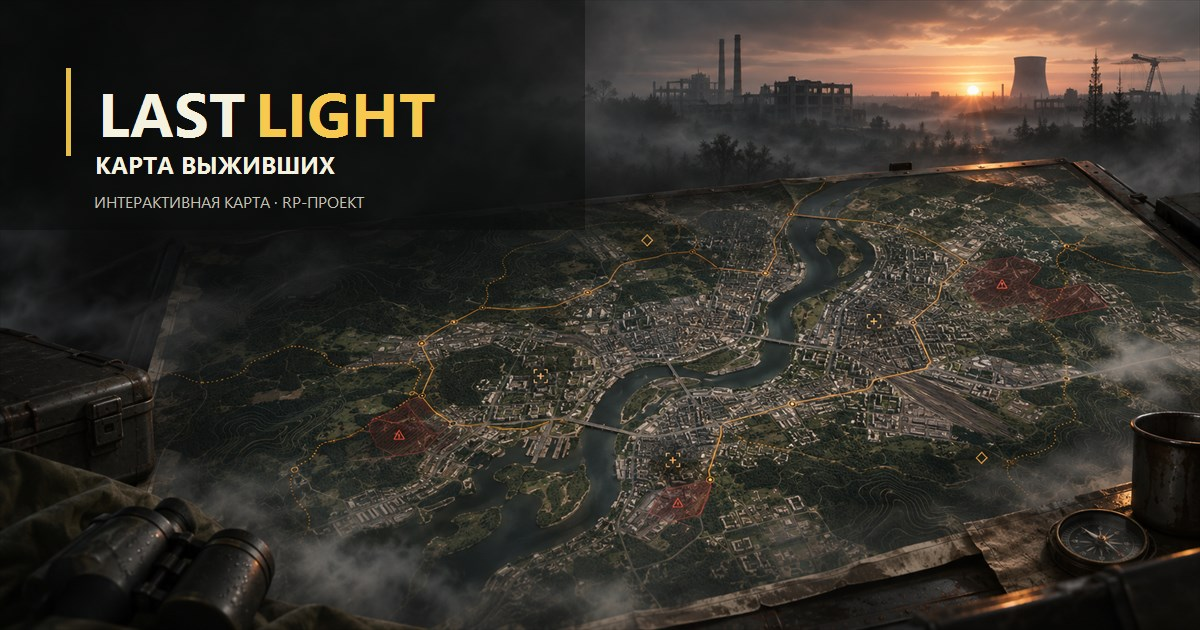
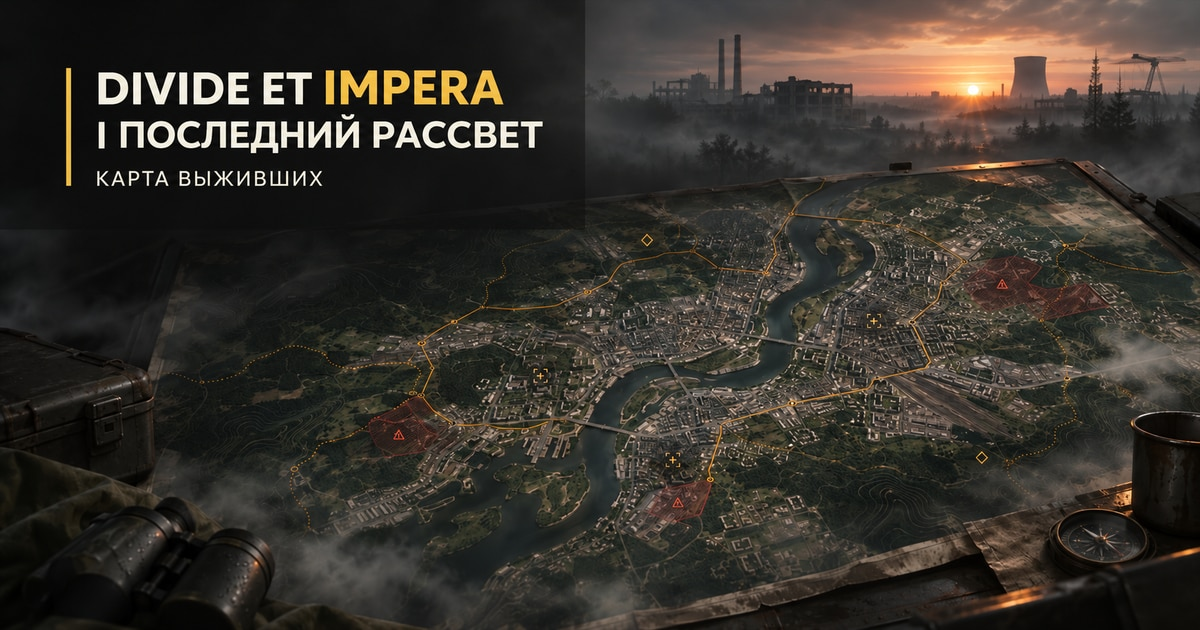
Add combat groups and modifier cards; rebrand to Divide et Impera I Последний рассвет

diff --git a/squad-combat.js b/squad-combat.js
@@ -1,0 +1,33 @@
+(function(){
+ 'use strict';
+ var E=esc,A=function(v){return Array.isArray(v)?v:[]},clone=function(v){return JSON.parse(JSON.stringify(v))},dialog=document.createElement('dialog'),editor=null,filter='active';dialog.className='ds-dialog combat-dialog';document.body.append(dialog);
+ function id(){return 'c_'+(crypto.randomUUID?crypto.randomUUID().replace(/-/g,''):Date.now().toString(36)+Math.random().toString(36).slice(2))}
+ function button(text,action,index){return isMaster()?'<button type="button" data-combat="'+action+'" data-index="'+(index==null?-1:index)+'">'+E(text)+'</button>':''}
+ function text(t){return '<div class="ds-detail-text">'+E(t||'')+'</div>'}
+ function optional(title,value){return value?'<section class="combat-section"><h3>'+E(title)+'</h3>'+text(value)+'</section>':''}
+ function groupMembers(s,g){return A(g.memberIds).map(function(key){var m=LLSquadDossier.roster(s).find(function(v){return String(v.id)===String(key)});return {id:String(key),m:m,name:m?m.n:(g.memberNames||{})[key]||'Участник удалён из состава'}})}
+ function render(s,tab){var d=s.dossier||{};
+  if(tab==='Военное дело'){var groups=A(d.combatGroups);return '<section class="ds-box"><div class="ds-titlebar"><h2>Боевые группы</h2>'+button('Сформировать группу','group')+'</div><p class="ds-caption">'+groups.length+' групп · раскройте карточку, чтобы посмотреть состав, задание и историю.</p><div class="combat-grid">'+groups.map(function(g,i){var members=groupMembers(s,g),leader=members.find(function(m){return m.id===String(g.leaderId)});return '<details class="combat-card"><summary><div class="ds-heading"><h3>'+E(g.name)+'</h3><span class="ds-badge '+(g.status==='active'?'good':'')+'">'+(g.status==='active'?'Активна':'Неактивна')+'</span></div><span class="ds-caption">'+E(g.type||'Боевая группа')+'</span><dl class="ds-keyvals"><dt>Руководитель</dt><dd>'+E(leader?leader.name:'Не назначен')+'</dd><dt>Участники</dt><dd>'+members.filter(function(m){return m.m}).length+(members.some(function(m){return !m.m})?' · состав требует проверки':'')+'</dd><dt>Назначение</dt><dd>'+E(g.purpose||'Не указано')+'</dd><dt>Текущее задание</dt><dd>'+E(g.currentTask||'Нет')+'</dd></dl><span class="combat-open-hint">Состав и подробности</span></summary><section class="combat-section"><h3>Состав группы</h3><div class="combat-roster">'+(members.length?members.map(function(v){return '<div class="combat-person">'+(v.m?LLCharacterEquipment.portrait(v.m):'')+'<div><b>'+E(v.name)+'</b><span class="ds-caption">'+E(v.m?[v.m.spec,v.id===String(g.leaderId)?'Руководитель':'Участник группы'].filter(Boolean).join(' · '):'Больше не числится в отряде')+'</span></div></div>'}).join(''):'<p class="ds-caption">Участники ещё не назначены.</p>')+'</div></section>'+optional('Состояние',g.availability)+optional('Последнее задание',g.lastTask)+optional('Информация',g.notes)+'<div class="ds-actions">'+button('Изменить состав','group',i)+button('Назначить задание','assign',i)+'</div><details class="combat-history"><summary>История группы · '+A(g.history).length+'</summary>'+A(g.history).slice().reverse().map(function(h){return '<div class="combat-history-row"><small>Ход '+E(h.turn)+'</small>'+text(h.text)+'</div>'}).join('')+'</details>'+button('Удалить группу','delete-group',i)+'</details>'}).join('')+'</div>'+(!groups.length?'<div class="ds-empty">Группы пока не сформированы. Мастер может объединить персонажей отряда и назначить руководителя.</div>':'')+'</section>'}
+  if(tab==='Модификаторы'){var all=A(d.modifiers),active=all.filter(function(m){return m.status!=='inactive'}),rows=all.map(function(m,i){return{m:m,i:i}}).filter(function(v){return filter==='all'||v.m.status!=='inactive'}),types={positive:'Положительный',negative:'Отрицательный',mixed:'Смешанный'},terms={permanent:'Постоянный',temporary:'Временный',conditional:'До выполнения условия'};return '<section class="ds-box"><div class="ds-titlebar"><h2>Модификаторы отряда</h2>'+button('Добавить модификатор','modifier')+'</div><div class="ds-heading"><span class="ds-badge">'+active.length+' активных</span><div class="ds-filters"><button data-modifier-filter="active" class="'+(filter==='active'?'on':'')+'">Действующие</button><button data-modifier-filter="all" class="'+(filter==='all'?'on':'')+'">Все</button></div></div><p class="ds-caption">Эффекты, причины и условия действия. Изменения показателей по ним фиксирует мастер.</p>'+rows.map(function(v){var m=v.m,tone=m.type==='positive'?'good':m.type==='negative'?'bad':'risk';return '<details class="combat-card modifier-card"><summary><div class="ds-heading"><h3>'+E(m.name)+'</h3><span class="ds-badge '+tone+'">'+E(types[m.type]||types.mixed)+'</span></div>'+text(m.summary)+(m.source?'<p class="ds-caption">Источник: '+E(m.source)+'</p>':'')+'<span class="combat-open-hint">Эффекты и подробности</span></summary><div class="ds-heading"><span class="ds-badge">'+(m.status==='inactive'?'Неактивен':'Активен')+'</span><span class="ds-caption">'+E(terms[m.term]||terms.permanent)+'</span></div>'+optional('Описание',m.description)+(A(m.effects).length?'<section class="combat-section"><h3>Влияние на отряд</h3>'+A(m.effects).map(function(e){return '<div class="modifier-effect"><div><b>'+E(e.name)+'</b>'+text(e.description)+'</div><strong class="'+(Number(e.delta)<0?'negative':'positive')+'">'+(Number(e.delta)>0?'+':'')+E(e.delta==null?'—':e.delta)+'</strong></div>'}).join('')+'</section>':'')+optional('Возможные последствия',m.consequences)+optional('Как устранить / изменить',m.remedy)+optional('Длительность',m.duration)+optional('Перспектива',m.outlook)+'<div class="ds-actions">'+button('Редактировать','modifier',v.i)+button('Удалить','delete-modifier',v.i)+'</div></details>'}).join('')+(!rows.length?'<div class="ds-empty">'+(filter==='all'?'Модификаторы пока не добавлены.':'Действующих модификаторов нет.')+'</div>':'')+'</section>'}
+  return null;
+ }
+ function field(label,name,value,type,options){type=type||'text';var v=value==null?'':value;return '<label class="ds-field '+(type==='textarea'?'wide':'')+'">'+E(label)+(type==='textarea'?'<textarea name="'+name+'" maxlength="5000">'+E(v)+'</textarea>':type==='select'?'<select name="'+name+'">'+Object.keys(options).map(function(k){return '<option value="'+E(k)+'" '+(String(v)===k?'selected':'')+'>'+E(options[k])+'</option>'}).join('')+'</select>':'<input name="'+name+'" type="'+type+'" value="'+E(v)+'" '+(type==='number'?'min="-1000000" max="1000000" step="any"':'maxlength="200"')+(name==='name'?' required':'')+'>')+'</label>'}
+ function effectRow(v){v=v||{};return '<div class="combat-effect-row">'+field('Показатель','effectName',v.name)+field('Изменение','effectDelta',v.delta,'number')+field('Что означает эффект','effectDescription',v.description,'textarea')+'<button type="button" data-effect-remove>Убрать эффект</button></div>'}
+ function open(s,kind,index,assignment){
+  if(!isMaster())return;var source=clone(s),d=source.dossier||{},key=kind==='group'?'combatGroups':'modifiers',values=A(d[key]),v=clone(values[index]||{}),roster=clone(LLSquadDossier.roster(s));roster.forEach(function(m){if(!m.id)m.id=id()});editor={source:source,kind:kind,key:key,index:index,v:v,roster:roster};
+  var html='';if(kind==='group'){if(!v.status)v.status='active';html=field('Название группы','name',v.name)+field('Тип группы','type',v.type)+field('Состояние','status',v.status,'select',{active:'Активна',inactive:'Неактивна'})+field('Назначение','purpose',v.purpose)+field('Текущее задание','currentTask',v.currentTask)+field('Готовность / занятость','availability',v.availability)+field('Последнее задание','lastTask',v.lastTask)+field('Информация','notes',v.notes,'textarea')+'<section class="ds-edit-section wide"><h3>Состав группы</h3><div class="combat-member-choices">'+roster.map(function(m){return '<label><input type="checkbox" name="memberIds" value="'+E(m.id)+'" '+(A(v.memberIds).map(String).includes(String(m.id))?'checked':'')+'><span><b>'+E(m.n)+'</b><small>'+E(m.spec||'Участник отряда')+'</small></span></label>'}).join('')+'</div>'+(roster.length?'':'<p class="ds-caption">Сначала добавьте персонажей в разделе «Персонал».</p>')+field('Руководитель (должен входить в состав)','leaderId',v.leaderId,'select',Object.assign({'':'Не назначен'},Object.fromEntries(roster.map(function(m){return [m.id,m.n]}))))+'</section>';}
+  else{html=field('Название','name',v.name)+field('Тип','type',v.type||'positive','select',{positive:'Положительный',negative:'Отрицательный',mixed:'Смешанный'})+field('Состояние','status',v.status||'active','select',{active:'Активен',inactive:'Неактивен'})+field('Характер действия','term',v.term||'permanent','select',{permanent:'Постоянный',temporary:'Временный',conditional:'До выполнения условия'})+field('Краткое описание','summary',v.summary,'textarea')+field('Источник','source',v.source)+field('Подробное описание','description',v.description,'textarea')+field('Возможные последствия','consequences',v.consequences,'textarea')+field('Как устранить / изменить (необязательно)','remedy',v.remedy,'textarea')+field('Длительность (необязательно)','duration',v.duration)+field('Перспектива (необязательно)','outlook',v.outlook)+'<section class="ds-edit-section wide"><h3>Влияние на показатели</h3><div data-combat-effects>'+A(v.effects).map(effectRow).join('')+'</div><button type="button" data-effect-add>Добавить эффект</button></section>'}
+  dialog.innerHTML='<form><div class="ds-dialog-head"><h2>'+(kind==='group'?(index<0?'Сформировать группу':'Боевая группа'):'Модификатор')+'</h2><button type="button" data-combat-close aria-label="Закрыть">×</button></div><div class="ds-dialog-body"><p class="ds-caption">'+(kind==='group'?'Выберите участников из состава отряда. Изменения состава и задания сохраняются в истории группы.':'Заполняйте нужные поля. Пустые дополнительные разделы не показываются игрокам.')+'</p><div class="ds-form-grid">'+html+'</div></div><div class="ds-dialog-foot"><span data-combat-error role="status"></span><button type="button" data-combat-close>Отмена</button><button class="pr" type="submit">Сохранить</button></div></form>';
+  if(kind==='group'){var tasks=A(d.tasks);var datalist=document.createElement('datalist');datalist.id='combat-task-options';tasks.forEach(function(t){datalist.append(new Option(t.title,t.title))});dialog.append(datalist);dialog.querySelector('[name=currentTask]').setAttribute('list',datalist.id)}dialog.showModal();if(assignment)dialog.querySelector('[name=currentTask]').focus();
+ }
+ async function persist(source,patch){if(!isMaster()||!worldSyncReady||!worldCloudExists||!window.LLAuth)throw Error('Дождитесь подключения общей базы.');var expected={};Object.keys(patch).forEach(function(k){expected[k]=source[k]===undefined?null:source[k]});var updated=await LLAuth.updateSquadDossier(source.id,patch,expected),i=D.squads.findIndex(function(q){return String(q.id)===String(source.id)});if(i>=0&&Number(D.squads[i].statsRevision||0)<=Number(updated.statsRevision||0))D.squads[i]=updated;save();rState()}
+ document.addEventListener('click',async function(ev){var f=ev.target.closest('[data-modifier-filter]');if(f){filter=f.dataset.modifierFilter;rState();return}var el=ev.target.closest('[data-combat]');if(!el||!isMaster())return;var s=LLSquadDossier.squad(),action=el.dataset.combat,index=Number(el.dataset.index);if(!s)return;if(action.startsWith('delete-')){if(!confirm('Удалить запись?'))return;var key=action==='delete-group'?'combatGroups':'modifiers',source=clone(s),d=clone(s.dossier||{});d[key]=A(d[key]);d[key].splice(index,1);el.disabled=true;try{await persist(source,{dossier:d})}catch(error){authMessage(error);el.disabled=false}return}open(s,action==='assign'?'group':action,index,action==='assign')});
+ dialog.addEventListener('click',function(ev){if(dialog.dataset.saving==='1')return;if(ev.target.closest('[data-combat-close]'))dialog.close();if(ev.target.closest('[data-effect-add]'))dialog.querySelector('[data-combat-effects]').insertAdjacentHTML('beforeend',effectRow({}));var remove=ev.target.closest('[data-effect-remove]');if(remove)remove.closest('.combat-effect-row').remove()});dialog.addEventListener('cancel',function(ev){if(dialog.dataset.saving==='1')ev.preventDefault()});
+ dialog.addEventListener('submit',async function(ev){ev.preventDefault();if(!editor||dialog.dataset.saving==='1'||!isMaster())return;var ed=editor,v=clone(ed.v),data=new FormData(dialog.querySelector('form')),patch={},error=dialog.querySelector('[data-combat-error]');data.forEach(function(value,key){if(!['memberIds','effectName','effectDelta','effectDescription'].includes(key))v[key]=String(value).trim()});
+  if(ed.kind==='group'){v.memberIds=data.getAll('memberIds');if(v.leaderId&&!v.memberIds.includes(v.leaderId)){error.textContent='Руководитель должен входить в состав группы.';return}v.memberNames=Object.fromEntries(ed.roster.filter(function(m){return v.memberIds.includes(String(m.id))}).map(function(m){return[m.id,m.n]}));if(ed.v.currentTask&&ed.v.currentTask!==v.currentTask&&!v.lastTask)v.lastTask=ed.v.currentTask;v.history=A(v.history).slice();var changes=[];if(ed.index<0)changes.push('Группа сформирована');else{if(JSON.stringify(A(ed.v.memberIds))!==JSON.stringify(v.memberIds)||ed.v.leaderId!==v.leaderId)changes.push('Состав или руководитель изменены');if(ed.v.currentTask!==v.currentTask)changes.push(v.currentTask?'Назначено задание: '+v.currentTask:'Группа освобождена от задания');if(ed.v.name!==v.name||ed.v.purpose!==v.purpose||ed.v.status!==v.status||ed.v.notes!==v.notes)changes.push('Информация о группе обновлена')}if(changes.length)v.history.push({turn:GAME_CLOCK?GAME_CLOCK.turn:D.turn,text:changes.join('. ')});if(JSON.stringify(ed.source.mem||[])!==JSON.stringify(ed.roster))patch.mem=ed.roster;}
+  else{v.effects=Array.from(dialog.querySelectorAll('.combat-effect-row')).map(function(row){return{name:row.querySelector('[name=effectName]').value.trim(),delta:row.querySelector('[name=effectDelta]').value===''?null:Number(row.querySelector('[name=effectDelta]').value),description:row.querySelector('[name=effectDescription]').value.trim()}}).filter(function(e){return e.name||e.description||e.delta!==null})}
+  if(!v.id)v.id=id();var d=clone(ed.source.dossier||{}),values=A(d[ed.key]).slice();if(ed.index<0)values.push(v);else values[ed.index]=v;d[ed.key]=values;patch.dossier=d;dialog.dataset.saving='1';dialog.querySelectorAll('button,input,select,textarea').forEach(function(el){el.disabled=true});
+  try{await persist(ed.source,patch);dialog.close();toast('Данные отряда сохранены.','ok')}catch(e){error.textContent=e.message}finally{dialog.dataset.saving='0';dialog.querySelectorAll('button,input,select,textarea').forEach(function(el){el.disabled=false})}
+ });
+ window.addEventListener('ll:auth-state',function(){if(!isMaster()&&dialog.open)dialog.close()});var base=LLDevelopment.render;LLDevelopment.render=function(s,tab){var view=render(s,tab);return view===null?base(s,tab):view};
+})();

diff --git a/rp-social.js b/rp-social.js
@@ -561,7 +561,7 @@
     var selected = studioState.selected >= 0 ? studioState.shapes[studioState.selected] : null;
     var design = serializeStudioDesign(studioState.shapes);
     var legacy = encodeMarkerDesign(studioState.shapes);
-    return '<div class="marker-studio"><div class="eb">МАСТЕРСКАЯ · LAST LIGHT</div><h1>Редактор значков</h1><p>Соберите значок из фигур или рисуйте мышью и пальцем. Кисть рисует, ластик стирает части рисунка, а выбранные фигуры можно поворачивать. Шаблоны сохраняются в этом браузере.</p><div class="marker-studio-grid"><div class="card marker-studio-controls"><h3>Готовые шаблоны</h3><div class="marker-studio-preset-grid">' + presetCards + '</div><label class="fi">Название шаблона<input data-studio-field="name" maxlength="48" value="' + esc(studioState.name) + '"></label><label class="fi">Заголовок метки<input data-studio-field="title" maxlength="100" value="' + esc(studioState.title) + '"></label><label class="fi">Цвет<input type="color" data-studio-field="color" value="' + esc(validPrivateColor(studioState.color)) + '"></label><label class="fi">Короткая надпись на карте<input data-studio-field="caption" maxlength="48" value="' + esc(studioState.caption) + '" placeholder="Например: РАДИО"></label><label class="fi">Описание<textarea data-studio-field="description" rows="3" maxlength="1000">' + esc(studioState.description) + '</textarea></label><div style="display:flex;gap:7px;flex-wrap:wrap"><button class="pr" type="button" data-studio-save>Сохранить шаблон</button><button type="button" data-studio-use>Сохранить и выбрать</button></div><div class="marker-studio-note">После выбора шаблона редактор карты откроется на личной метке, где можно указать получателей. Сам значок синхронизируется вместе с меткой.</div><h3 style="margin-top:18px">Мои шаблоны</h3><div class="marker-studio-saved">' + savedHtml + '</div></div><div class="card marker-studio-work"><h3>Рабочая область</h3><div class="marker-studio-tools"><button type="button" data-studio-tool="c" class="' + (studioTool === "c" ? "on" : "") + '">Круг</button><button type="button" data-studio-tool="s" class="' + (studioTool === "s" ? "on" : "") + '">Квадрат</button><button type="button" data-studio-tool="l" class="' + (studioTool === "l" ? "on" : "") + '">Палочка</button><button type="button" data-studio-tool="t" class="' + (studioTool === "t" ? "on" : "") + '">Треугольник</button><button type="button" data-studio-tool="d" class="' + (studioTool === "d" ? "on" : "") + '">Ромб</button><button type="button" data-studio-tool="x" class="' + (studioTool === "x" ? "on" : "") + '">Крест</button><button type="button" data-studio-tool="L" class="' + (studioTool === "L" ? "on" : "") + '">Прямая линия</button><button type="button" data-studio-tool="p" class="' + (studioTool === "p" ? "on" : "") + '">Кисть</button><button type="button" data-studio-tool="e" class="' + (studioTool === "e" ? "on" : "") + '">Ластик</button></div><div class="marker-studio-canvas-wrap"><svg id="marker-design-canvas" class="marker-studio-canvas" viewBox="0 0 100 100" role="img" aria-label="Поле сборки значка"></svg></div><div class="marker-studio-selection"><button type="button" data-studio-history="undo" ' + (!studioUndo.length ? "disabled" : "") + ' title="Отменить последнее изменение">↶ Назад</button><button type="button" data-studio-history="redo" ' + (!studioRedo.length ? "disabled" : "") + ' title="Повторить отменённое изменение">↷ Вперёд</button><span data-studio-selection style="flex:1">Выберите фигуру или инструмент.</span><button type="button" data-studio-rotate="-1" title="Повернуть против часовой стрелки">↶ Повернуть влево</button><button type="button" data-studio-rotate="1" title="Повернуть по часовой стрелке">↷ Повернуть вправо</button></div><div class="marker-studio-selection"><label>Кисть <input type="range" id="studio-brush-size" min="1" max="18" value="' + studioBrushSize + '" aria-label="Толщина кисти"></label><span data-studio-brush-value>' + studioBrushSize + '</span><label>Ластик <input type="range" id="studio-eraser-size" min="1" max="18" value="' + studioEraserSize + '" aria-label="Размер ластика"></label><span data-studio-eraser-value>' + studioEraserSize + '</span><label><input type="checkbox" data-studio-fill ' + (studioFill ? "checked" : "") + ' style="width:auto"> Заливка новых фигур</label></div><div class="marker-studio-selection"><label>Размер фигуры <input type="range" id="studio-shape-size" min="3" max="18" value="' + (selected ? selected.s : 10) + '" ' + (!selected ? "disabled" : "") + '></label><button type="button" data-studio-fill-selected ' + (!selected || selected.t === "p" || selected.t === "L" ? "disabled" : "") + '>' + (selected && selected.fill ? "Убрать заливку" : "Залить фигуру") + '</button><button type="button" data-studio-delete ' + (!selected ? "disabled" : "") + '>Удалить фигуру</button></div><div class="marker-studio-preview" style="margin-top:14px">' + privateIcon({ design: design, symbol: legacy, color: studioState.color, caption: studioState.caption }).options.html + '<span><b data-studio-preview-title>' + esc(studioState.title || "Личная метка") + '</b><small data-studio-preview-caption>' + esc(studioState.caption || "Без подписи на карте") + '</small></span></div></div></div></div>';
+    return '<div class="marker-studio"><div class="eb">МАСТЕРСКАЯ · Divide et Impera I Последний рассвет</div><h1>Редактор значков</h1><p>Соберите значок из фигур или рисуйте мышью и пальцем. Кисть рисует, ластик стирает части рисунка, а выбранные фигуры можно поворачивать. Шаблоны сохраняются в этом браузере.</p><div class="marker-studio-grid"><div class="card marker-studio-controls"><h3>Готовые шаблоны</h3><div class="marker-studio-preset-grid">' + presetCards + '</div><label class="fi">Название шаблона<input data-studio-field="name" maxlength="48" value="' + esc(studioState.name) + '"></label><label class="fi">Заголовок метки<input data-studio-field="title" maxlength="100" value="' + esc(studioState.title) + '"></label><label class="fi">Цвет<input type="color" data-studio-field="color" value="' + esc(validPrivateColor(studioState.color)) + '"></label><label class="fi">Короткая надпись на карте<input data-studio-field="caption" maxlength="48" value="' + esc(studioState.caption) + '" placeholder="Например: РАДИО"></label><label class="fi">Описание<textarea data-studio-field="description" rows="3" maxlength="1000">' + esc(studioState.description) + '</textarea></label><div style="display:flex;gap:7px;flex-wrap:wrap"><button class="pr" type="button" data-studio-save>Сохранить шаблон</button><button type="button" data-studio-use>Сохранить и выбрать</button></div><div class="marker-studio-note">После выбора шаблона редактор карты откроется на личной метке, где можно указать получателей. Сам значок синхронизируется вместе с меткой.</div><h3 style="margin-top:18px">Мои шаблоны</h3><div class="marker-studio-saved">' + savedHtml + '</div></div><div class="card marker-studio-work"><h3>Рабочая область</h3><div class="marker-studio-tools"><button type="button" data-studio-tool="c" class="' + (studioTool === "c" ? "on" : "") + '">Круг</button><button type="button" data-studio-tool="s" class="' + (studioTool === "s" ? "on" : "") + '">Квадрат</button><button type="button" data-studio-tool="l" class="' + (studioTool === "l" ? "on" : "") + '">Палочка</button><button type="button" data-studio-tool="t" class="' + (studioTool === "t" ? "on" : "") + '">Треугольник</button><button type="button" data-studio-tool="d" class="' + (studioTool === "d" ? "on" : "") + '">Ромб</button><button type="button" data-studio-tool="x" class="' + (studioTool === "x" ? "on" : "") + '">Крест</button><button type="button" data-studio-tool="L" class="' + (studioTool === "L" ? "on" : "") + '">Прямая линия</button><button type="button" data-studio-tool="p" class="' + (studioTool === "p" ? "on" : "") + '">Кисть</button><button type="button" data-studio-tool="e" class="' + (studioTool === "e" ? "on" : "") + '">Ластик</button></div><div class="marker-studio-canvas-wrap"><svg id="marker-design-canvas" class="marker-studio-canvas" viewBox="0 0 100 100" role="img" aria-label="Поле сборки значка"></svg></div><div class="marker-studio-selection"><button type="button" data-studio-history="undo" ' + (!studioUndo.length ? "disabled" : "") + ' title="Отменить последнее изменение">↶ Назад</button><button type="button" data-studio-history="redo" ' + (!studioRedo.length ? "disabled" : "") + ' title="Повторить отменённое изменение">↷ Вперёд</button><span data-studio-selection style="flex:1">Выберите фигуру или инструмент.</span><button type="button" data-studio-rotate="-1" title="Повернуть против часовой стрелки">↶ Повернуть влево</button><button type="button" data-studio-rotate="1" title="Повернуть по часовой стрелке">↷ Повернуть вправо</button></div><div class="marker-studio-selection"><label>Кисть <input type="range" id="studio-brush-size" min="1" max="18" value="' + studioBrushSize + '" aria-label="Толщина кисти"></label><span data-studio-brush-value>' + studioBrushSize + '</span><label>Ластик <input type="range" id="studio-eraser-size" min="1" max="18" value="' + studioEraserSize + '" aria-label="Размер ластика"></label><span data-studio-eraser-value>' + studioEraserSize + '</span><label><input type="checkbox" data-studio-fill ' + (studioFill ? "checked" : "") + ' style="width:auto"> Заливка новых фигур</label></div><div class="marker-studio-selection"><label>Размер фигуры <input type="range" id="studio-shape-size" min="3" max="18" value="' + (selected ? selected.s : 10) + '" ' + (!selected ? "disabled" : "") + '></label><button type="button" data-studio-fill-selected ' + (!selected || selected.t === "p" || selected.t === "L" ? "disabled" : "") + '>' + (selected && selected.fill ? "Убрать заливку" : "Залить фигуру") + '</button><button type="button" data-studio-delete ' + (!selected ? "disabled" : "") + '>Удалить фигуру</button></div><div class="marker-studio-preview" style="margin-top:14px">' + privateIcon({ design: design, symbol: legacy, color: studioState.color, caption: studioState.caption }).options.html + '<span><b data-studio-preview-title>' + esc(studioState.title || "Личная метка") + '</b><small data-studio-preview-caption>' + esc(studioState.caption || "Без подписи на карте") + '</small></span></div></div></div></div>';
   }
 
   function renderStudioCanvas() {
@@ -732,7 +732,7 @@
     }
     if (TOOL === "pt") {
       var panel2 = document.getElementById("einsp");
-      if (panel2) panel2.insertAdjacentHTML("beforeend", '<label class="fi">Цвет значка<input id="pt-color" type="color" value="' + esc(PT_COLOR) + '"></label><label class="fi">Короткая подпись на карте<input id="pt-caption" maxlength="48" value="' + esc(PT_CAPTION) + '" placeholder="Необязательно"></label><div class="private-form-note">Можно выбрать любой значок из набора Last Light и добавить короткую подпись.</div>');
+      if (panel2) panel2.insertAdjacentHTML("beforeend", '<label class="fi">Цвет значка<input id="pt-color" type="color" value="' + esc(PT_COLOR) + '"></label><label class="fi">Короткая подпись на карте<input id="pt-caption" maxlength="48" value="' + esc(PT_CAPTION) + '" placeholder="Необязательно"></label><div class="private-form-note">Можно выбрать любой значок из набора Divide et Impera I Последний рассвет и добавить короткую подпись.</div>');
     }
     if (TOOL === "priv") drawPrivateEditorForm();
   };
@@ -1060,4 +1060,3 @@
   drawLeg();
   if (location.hash === "#marker-studio") setTimeout(renderMarkerStudio, 0);
 }());
-

diff --git a/squad-dossier.js b/squad-dossier.js
@@ -28,7 +28,7 @@
  function tabs(active){return '<div class="tabs">'+TABS.map(function(t){return '<button data-s="'+t+'" class="'+(t===active?'on':'')+'">'+t+'</button>'}).join('')+'</div>'}
  function hero(s){
   var d=data(s),members=roster(s),count=members.length||(d.rosterManaged?0:num(s.r&&s.r.f)),cap=num(d.capacity),turn=GAME_CLOCK?GAME_CLOCK.turn:D.turn;
-  return '<div class="ds-hero"><div class="ds-heading"><div><div class="eb">Досье отряда · Last Light</div><h1>'+e(s.n)+'</h1><div class="ds-caption">Ход '+e(turn)+(d.location?' · '+e(d.location):'')+(s.l?'<br>Глава · '+e(s.l):'')+'</div></div><span class="ds-badge '+(s.set?'good':'')+'">'+e(d.status||(s.set?'Лагерь активен':'Отряд в пути'))+'</span></div><div class="ds-tiles"><div class="ds-tile"><strong>'+value(count)+(cap!==null?'/'+cap:'')+'</strong><span>Участники</span></div><div class="ds-tile"><strong>'+value(s.mor)+'</strong><span>Мораль</span></div><div class="ds-tile"><strong>'+value(d.cohesion)+'</strong><span>Сплочённость</span></div></div>'+(isMaster()?'<div class="ds-actions ds-squad-actions"><select data-ds-select aria-label="Выбрать отряд">'+D.squads.filter(ok).map(function(q){return '<option value="'+e(q.id)+'" '+(String(q.id)===String(s.id)?'selected':'')+'>'+e(q.n)+'</option>'}).join('')+'</select>'+button('Показатели отряда','edit-overview')+'<button type="button" data-squad-settings="edit">Настройки отряда</button><button type="button" class="pr" data-squad-settings="create">Создать отряд</button></div>':'')+'</div>';
+  return '<div class="ds-hero"><div class="ds-heading"><div><div class="eb">Досье отряда · Divide et Impera I Последний рассвет</div><h1>'+e(s.n)+'</h1><div class="ds-caption">Ход '+e(turn)+(d.location?' · '+e(d.location):'')+(s.l?'<br>Глава · '+e(s.l):'')+'</div></div><span class="ds-badge '+(s.set?'good':'')+'">'+e(d.status||(s.set?'Лагерь активен':'Отряд в пути'))+'</span></div><div class="ds-tiles"><div class="ds-tile"><strong>'+value(count)+(cap!==null?'/'+cap:'')+'</strong><span>Участники</span></div><div class="ds-tile"><strong>'+value(s.mor)+'</strong><span>Мораль</span></div><div class="ds-tile"><strong>'+value(d.cohesion)+'</strong><span>Сплочённость</span></div></div>'+(isMaster()?'<div class="ds-actions ds-squad-actions"><select data-ds-select aria-label="Выбрать отряд">'+D.squads.filter(ok).map(function(q){return '<option value="'+e(q.id)+'" '+(String(q.id)===String(s.id)?'selected':'')+'>'+e(q.n)+'</option>'}).join('')+'</select>'+button('Показатели отряда','edit-overview')+'<button type="button" data-squad-settings="edit">Настройки отряда</button><button type="button" class="pr" data-squad-settings="create">Создать отряд</button></div>':'')+'</div>';
  }
  function title(text,action,label){return '<div class="ds-titlebar"><h2>'+e(text)+'</h2>'+(isMaster()&&action?button(label||'Добавить',action):'')+'</div>'}
  function overview(s){var d=data(s);return '<div class="ds-layout"><section class="ds-box">'+title('Состояние отряда')+meter('Мораль',s.mor,'Общее эмоциональное состояние')+METRICS.slice(0,3).map(function(m){return meter(m[1],d[m[0]],m[2],m[3])}).join('')+'</section><section class="ds-box">'+title('Готовность и лагерь')+METRICS.slice(3).map(function(m){return meter(m[1],d[m[0]],m[2],m[3])}).join('')+'<div class="ds-note">Показатели обновляет мастер по результатам действий и вердиктов. Незаполненные значения отмечены прочерком.</div></section></div>'}

diff --git a/index.html b/index.html
@@ -3,26 +3,26 @@
 <head>
 <meta charset="utf-8">
 <meta name="viewport" content="width=device-width, initial-scale=1">
-<title>Last Light — карта выживших</title>
+<title>Divide et Impera I Последний рассвет — карта выживших</title>
 <meta name="description" content="Интерактивная карта выживших в мире зомби-апокалипсиса: отряды, маршруты, опасные зоны и точки интереса.">
 <meta name="theme-color" content="#11130f">
 <link rel="canonical" href="https://hikikamoris.github.io/last-light-map/">
 <meta property="og:locale" content="ru_RU">
 <meta property="og:type" content="website">
-<meta property="og:site_name" content="Last Light">
-<meta property="og:title" content="Last Light — карта выживших">
+<meta property="og:site_name" content="Divide et Impera I Последний рассвет">
+<meta property="og:title" content="Divide et Impera I Последний рассвет — карта выживших">
 <meta property="og:description" content="Интерактивная карта выживших в мире зомби-апокалипсиса: отряды, маршруты, опасные зоны и точки интереса.">
 <meta property="og:url" content="https://hikikamoris.github.io/last-light-map/">
-<meta property="og:image" content="https://hikikamoris.github.io/last-light-map/preview.jpg">
-<meta property="og:image:secure_url" content="https://hikikamoris.github.io/last-light-map/preview.jpg">
+<meta property="og:image" content="https://hikikamoris.github.io/last-light-map/preview.jpg?v=20261125-combat-brand1">
+<meta property="og:image:secure_url" content="https://hikikamoris.github.io/last-light-map/preview.jpg?v=20261125-combat-brand1">
 <meta property="og:image:type" content="image/jpeg">
 <meta property="og:image:width" content="1200">
 <meta property="og:image:height" content="630">
-<meta property="og:image:alt" content="Last Light — интерактивная карта выживших с маршрутами и зонами опасности">
+<meta property="og:image:alt" content="Divide et Impera I Последний рассвет — интерактивная карта выживших с маршрутами и зонами опасности">
 <meta name="twitter:card" content="summary_large_image">
-<meta name="twitter:title" content="Last Light — карта выживших">
+<meta name="twitter:title" content="Divide et Impera I Последний рассвет — карта выживших">
 <meta name="twitter:description" content="Интерактивная карта выживших в мире зомби-апокалипсиса: отряды, маршруты, опасные зоны и точки интереса.">
-<meta name="twitter:image" content="https://hikikamoris.github.io/last-light-map/preview.jpg">
+<meta name="twitter:image" content="https://hikikamoris.github.io/last-light-map/preview.jpg?v=20261125-combat-brand1">
 <style>
 :root{color-scheme:dark;background:#10120f}
 *{box-sizing:border-box}
@@ -32,9 +32,9 @@ body{height:100vh;height:100dvh}
 </style>
 </head>
 <body>
-<iframe id="app" src="./app.html?v=20261125-settings1#map" title="Last Light — интерактивная карта выживших"></iframe>
+<iframe id="app" src="./app.html?v=20261125-combat-brand1#map" title="Divide et Impera I Последний рассвет — интерактивная карта выживших"></iframe>
 <script>
-if(location.hash)document.getElementById("app").src="./app.html?v=20261125-settings1"+location.hash;
+if(location.hash)document.getElementById("app").src="./app.html?v=20261125-combat-brand1"+location.hash;
 </script>
 </body>
 </html>

diff --git a/map/index.html b/map/index.html
@@ -3,26 +3,26 @@
 <head>
 <meta charset="utf-8">
 <meta name="viewport" content="width=device-width, initial-scale=1">
-<title>Last Light — интерактивная карта выживших</title>
+<title>Divide et Impera I Последний рассвет — интерактивная карта выживших</title>
 <meta name="description" content="Интерактивная карта выживших в мире зомби-апокалипсиса: отряды, маршруты, опасные зоны и точки интереса.">
 <meta name="theme-color" content="#11130f">
 <link rel="canonical" href="https://hikikamoris.github.io/last-light-map/map/">
 <meta property="og:locale" content="ru_RU">
 <meta property="og:type" content="website">
-<meta property="og:site_name" content="Last Light">
-<meta property="og:title" content="Last Light — карта выживших">
+<meta property="og:site_name" content="Divide et Impera I Последний рассвет">
+<meta property="og:title" content="Divide et Impera I Последний рассвет — карта выживших">
 <meta property="og:description" content="Интерактивная карта выживших в мире зомби-апокалипсиса: отряды, маршруты, опасные зоны и точки интереса.">
 <meta property="og:url" content="https://hikikamoris.github.io/last-light-map/map/">
-<meta property="og:image" content="https://hikikamoris.github.io/last-light-map/preview.jpg">
-<meta property="og:image:secure_url" content="https://hikikamoris.github.io/last-light-map/preview.jpg">
+<meta property="og:image" content="https://hikikamoris.github.io/last-light-map/preview.jpg?v=20261125-combat-brand1">
+<meta property="og:image:secure_url" content="https://hikikamoris.github.io/last-light-map/preview.jpg?v=20261125-combat-brand1">
 <meta property="og:image:type" content="image/jpeg">
 <meta property="og:image:width" content="1200">
 <meta property="og:image:height" content="630">
-<meta property="og:image:alt" content="Last Light — интерактивная карта выживших с маршрутами и зонами опасности">
+<meta property="og:image:alt" content="Divide et Impera I Последний рассвет — интерактивная карта выживших с маршрутами и зонами опасности">
 <meta name="twitter:card" content="summary_large_image">
-<meta name="twitter:title" content="Last Light — карта выживших">
+<meta name="twitter:title" content="Divide et Impera I Последний рассвет — карта выживших">
 <meta name="twitter:description" content="Интерактивная карта выживших в мире зомби-апокалипсиса: отряды, маршруты, опасные зоны и точки интереса.">
-<meta name="twitter:image" content="https://hikikamoris.github.io/last-light-map/preview.jpg">
+<meta name="twitter:image" content="https://hikikamoris.github.io/last-light-map/preview.jpg?v=20261125-combat-brand1">
 <style>
 :root{color-scheme:dark;background:#10120f}
 *{box-sizing:border-box}
@@ -32,6 +32,6 @@ body{height:100vh;height:100dvh}
 </style>
 </head>
 <body>
-<iframe id="app" src="../app.html#map" title="Last Light — интерактивная карта выживших"></iframe>
+<iframe id="app" src="../app.html?v=20261125-combat-brand1#map" title="Divide et Impera I Последний рассвет — интерактивная карта выживших"></iframe>
 </body>
 </html>

diff --git a/squad-combat.css b/squad-combat.css
@@ -1,0 +1,1 @@
+.combat-grid{display:grid;grid-template-columns:repeat(2,minmax(0,1fr));gap:16px}.ds details.combat-card{padding:20px;border:1px solid var(--bd,#414535);border-radius:12px;margin:14px 0;min-width:0;background:rgba(10,16,9,.35);overflow-wrap:anywhere}.combat-grid>.combat-card{margin:0!important}.ds .combat-card>summary{list-style:none;cursor:pointer}.combat-card>summary::-webkit-details-marker{display:none}.combat-card summary h3{margin:0}.combat-card .ds-heading{gap:12px;margin-bottom:12px}.combat-card .ds-keyvals{margin-top:18px}.combat-card .ds-keyvals dt,.combat-card .ds-keyvals dd{padding:9px 0}.combat-open-hint{display:block;margin-top:16px;color:#c7a852;font-size:12px}.combat-open-hint::after{content:' ＋'}.combat-card[open]>summary .combat-open-hint::after{content:' −'}.combat-section{padding-top:20px;margin-top:20px;border-top:1px solid var(--bd,#414535)}.combat-section h3{margin:0 0 14px}.combat-roster{display:grid;gap:14px}.combat-person{display:flex;align-items:center;gap:14px}.combat-person>div{min-width:0}.combat-person .ds-caption{display:block;margin-top:5px}.combat-person .character-portrait{flex:none}.combat-history-row{padding:12px 0;border-top:1px solid var(--bd,#414535)}.combat-history-row small{color:var(--mu)}.modifier-effect{display:flex;justify-content:space-between;align-items:center;gap:16px;padding:16px 0;border-bottom:1px solid var(--bd,#414535)}.modifier-effect strong{font-size:24px;white-space:nowrap}.modifier-effect .positive{color:#8fd18f}.modifier-effect .negative{color:#e08a80}.combat-effect-row{padding:16px;border:1px solid var(--bd,#414535);border-radius:10px;display:grid;grid-template-columns:minmax(0,1fr) 120px;gap:10px;margin-bottom:14px}.combat-effect-row button{grid-column:1/-1;justify-self:start}.combat-member-choices{display:grid;grid-template-columns:repeat(2,minmax(0,1fr));gap:10px;margin-bottom:16px}.combat-member-choices label{display:flex;align-items:center;gap:10px;padding:12px;border:1px solid var(--bd,#414535);border-radius:8px;cursor:pointer;min-width:0}.combat-member-choices input{width:18px;height:18px;flex:none;accent-color:#e2b94a}.combat-member-choices small{display:block;color:var(--mu);font-size:12px;margin-top:4px}.combat-dialog [data-combat-error]{color:#e08a80;flex:1}.combat-dialog .wide{grid-column:1/-1}@media(max-width:700px){.combat-grid,.combat-member-choices{grid-template-columns:1fr}.ds details.combat-card{padding:16px}.combat-effect-row{grid-template-columns:minmax(0,1fr) 90px}.combat-dialog .ds-dialog-foot{flex-wrap:wrap}.combat-dialog [data-combat-error]{flex-basis:100%}}

diff --git a/rules-editor.js b/rules-editor.js
@@ -2,7 +2,7 @@
  'use strict';
  var cloud=null,watching=false,ready=false;
  function refresh(){if(location.hash==='#rules')rRules();if(location.hash==='#admin'&&at==='Правила')rAdm()}
- function start(){if(watching||!window.LLAuth||!LLAuth.watchRules)return;watching=true;LLAuth.watchRules(function(sections){ready=true;cloud=sections?sections.map(function(r){return[r.title,r.text]}):null;if(cloud){RS=JSON.parse(JSON.stringify(cloud));D.rules=RS;save()}refresh()})}
+ function start(){if(watching||!window.LLAuth||!LLAuth.watchRules)return;watching=true;LLAuth.watchRules(function(sections){ready=true;cloud=sections?sections.map(function(r){return[r.title,r.text]}):null;if(cloud){RS=cloud.map(function(r){return[projectName(r[0]),projectName(r[1])]});D.rules=RS;save()}refresh()})}
  window.addEventListener('ll:auth-state',start);setTimeout(start,0);
  async function persist(next){if(!isMaster()||!ready)throw Error('Дождитесь подключения правил к общей базе.');await LLAuth.saveRules(next,cloud);cloud=JSON.parse(JSON.stringify(next));RS=next;D.rules=RS;save();refresh()}
  document.getElementById('adm').addEventListener('click',function(ev){var el=ev.target.closest('[data-act]');if(!el||!isMaster()||at!=='Правила')return;var action=el.dataset.act;if(!['rsave','rnew','rdel'].includes(action))return;ev.preventDefault();ev.stopImmediatePropagation();

diff --git a/project-brand.css b/project-brand.css
@@ -1,0 +1,1 @@
+body>header .logo{max-width:250px;min-width:0;flex-shrink:0;white-space:normal;line-height:1.1}body>header .logo .project-wordmark{display:block;font-size:20px;white-space:nowrap}body>header .logo small{display:block;font-size:12px;font-weight:500;margin-top:4px;color:#e4d5a7;letter-spacing:.03em}body>header #nav{min-width:0;overflow-x:auto;scrollbar-width:none}body>header #nav::-webkit-scrollbar{display:none}.mobile-menu-heading>div{min-width:0}.mobile-menu-heading small{display:block;line-height:1.5;overflow-wrap:anywhere}.mobile-menu-heading button{flex:none}.ds .eb{line-height:1.6;overflow-wrap:anywhere}@media(max-width:700px){body>header{grid-template-columns:42px minmax(0,1fr) 36px 36px;grid-template-rows:42px 22px;min-height:76px}body>header .logo{grid-column:2;grid-row:1;max-width:none;gap:6px;width:100%}body>header .logo svg{width:18px;height:18px}body>header .logo .project-wordmark{font-size:17px}body>header .logo small{font-size:10px;letter-spacing:0;margin-top:3px}body>header #clock{grid-row:2;grid-column:2/-1;max-width:100%;font-size:10px;white-space:nowrap}body>header #bell{grid-column:3;grid-row:1}body>header #prof{grid-column:4;grid-row:1}body>header #mobile-menu-toggle{grid-row:1;grid-column:1}}@media(max-width:350px){body>header .logo .project-wordmark{font-size:15px}body>header .logo small{font-size:9px}body>header .logo svg{display:none}}

diff --git a/mobile-navigation.js b/mobile-navigation.js
@@ -11,7 +11,7 @@
  header.prepend(toggle);
  var dialog=document.createElement('dialog');
  dialog.id='mobile-navigation';dialog.setAttribute('aria-labelledby','mobile-navigation-title');
- dialog.innerHTML='<div class="mobile-menu-heading"><div><small>LAST LIGHT</small><h2 id="mobile-navigation-title">Разделы</h2></div><button type="button" aria-label="Закрыть меню">×</button></div>';
+ dialog.innerHTML='<div class="mobile-menu-heading"><div><small>Divide et Impera I Последний рассвет</small><h2 id="mobile-navigation-title">Разделы</h2></div><button type="button" aria-label="Закрыть меню">×</button></div>';
  document.body.append(dialog);
  var context=document.createElement('div');context.id='mobile-context';context.setAttribute('aria-label','Подразделы');context.hidden=true;header.after(context);
  function close(){if(dialog.open)dialog.close();toggle.setAttribute('aria-expanded','false');}

diff --git a/mobile.css b/mobile.css
@@ -1,4 +1,4 @@
-/* Mobile layout for Last Light. Desktop styles remain in app.html. */
+/* Mobile layout for Divide et Impera I Последний рассвет. Desktop styles remain in app.html. */
 :root{color-scheme:dark}
 html,body{overflow-x:hidden;scrollbar-color:#625638 #141510;scrollbar-width:thin}
 ::-webkit-scrollbar{width:8px;height:8px;background:#141510}

diff --git a/README.md b/README.md
@@ -1,4 +1,4 @@
-# Last Light — карта выживших
+# Divide et Impera I Последний рассвет — карта выживших
 
 Публичный сайт: https://hikikamoris.github.io/last-light-map/
 
